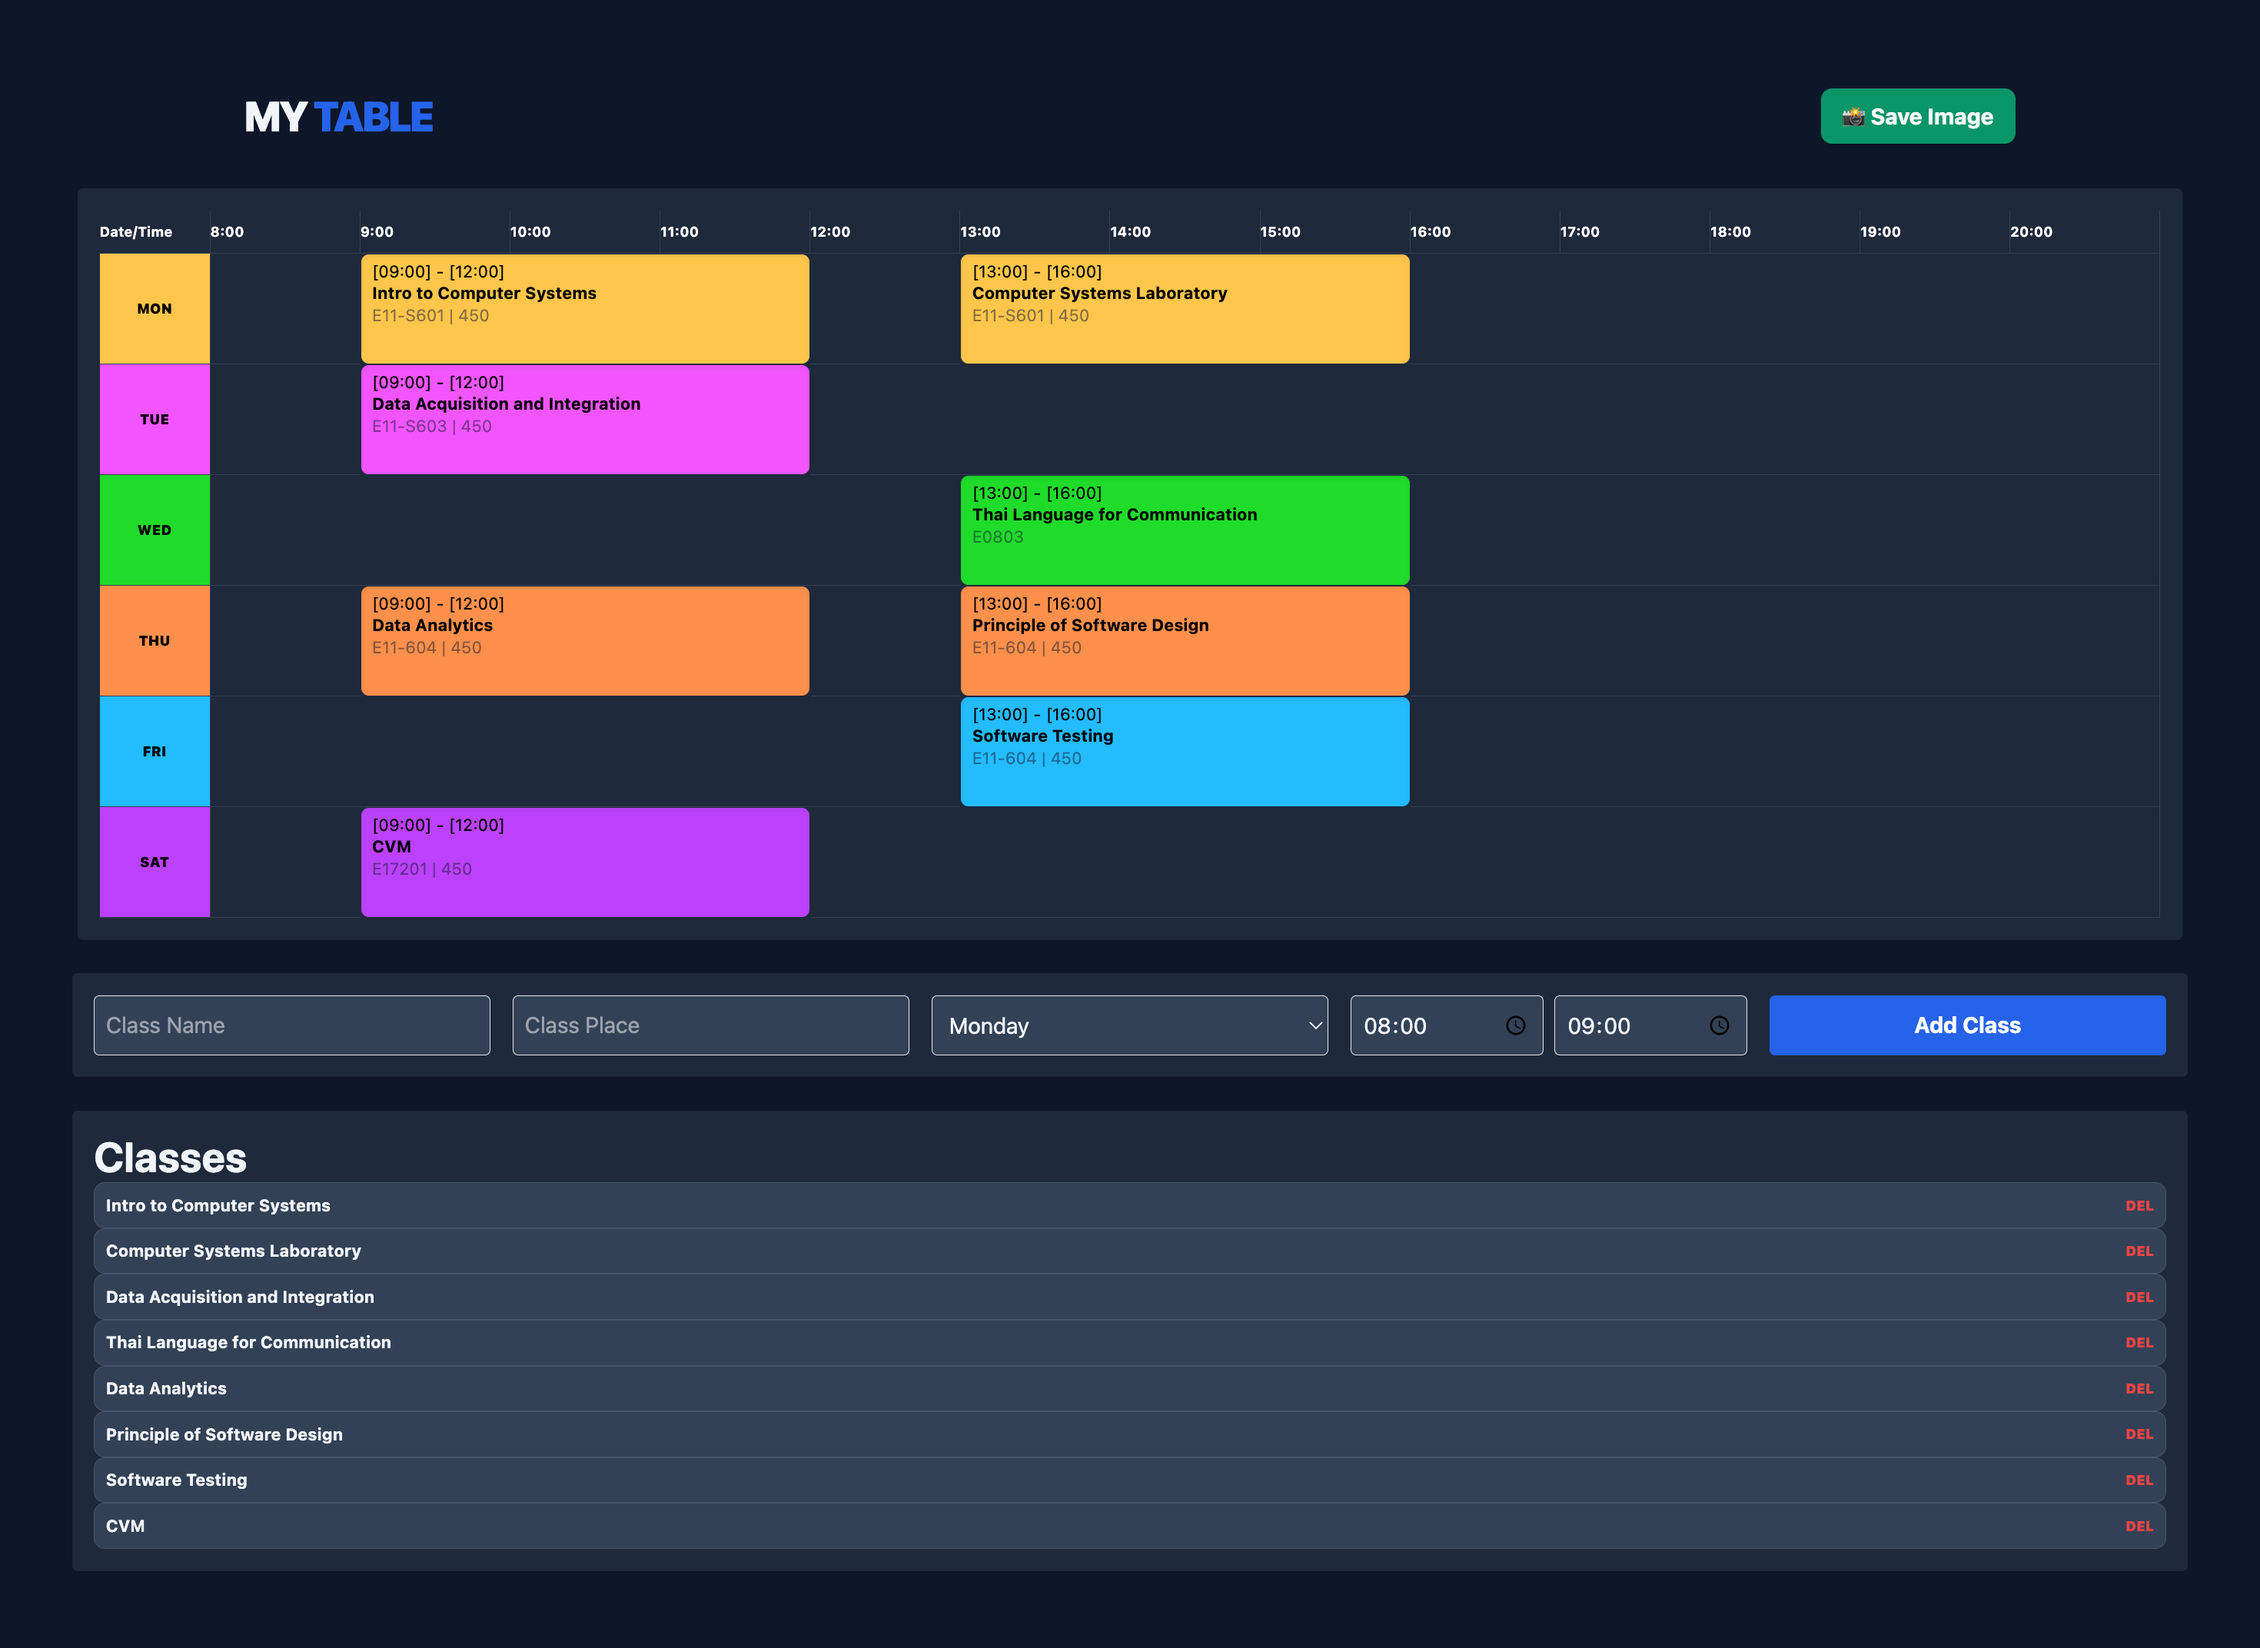
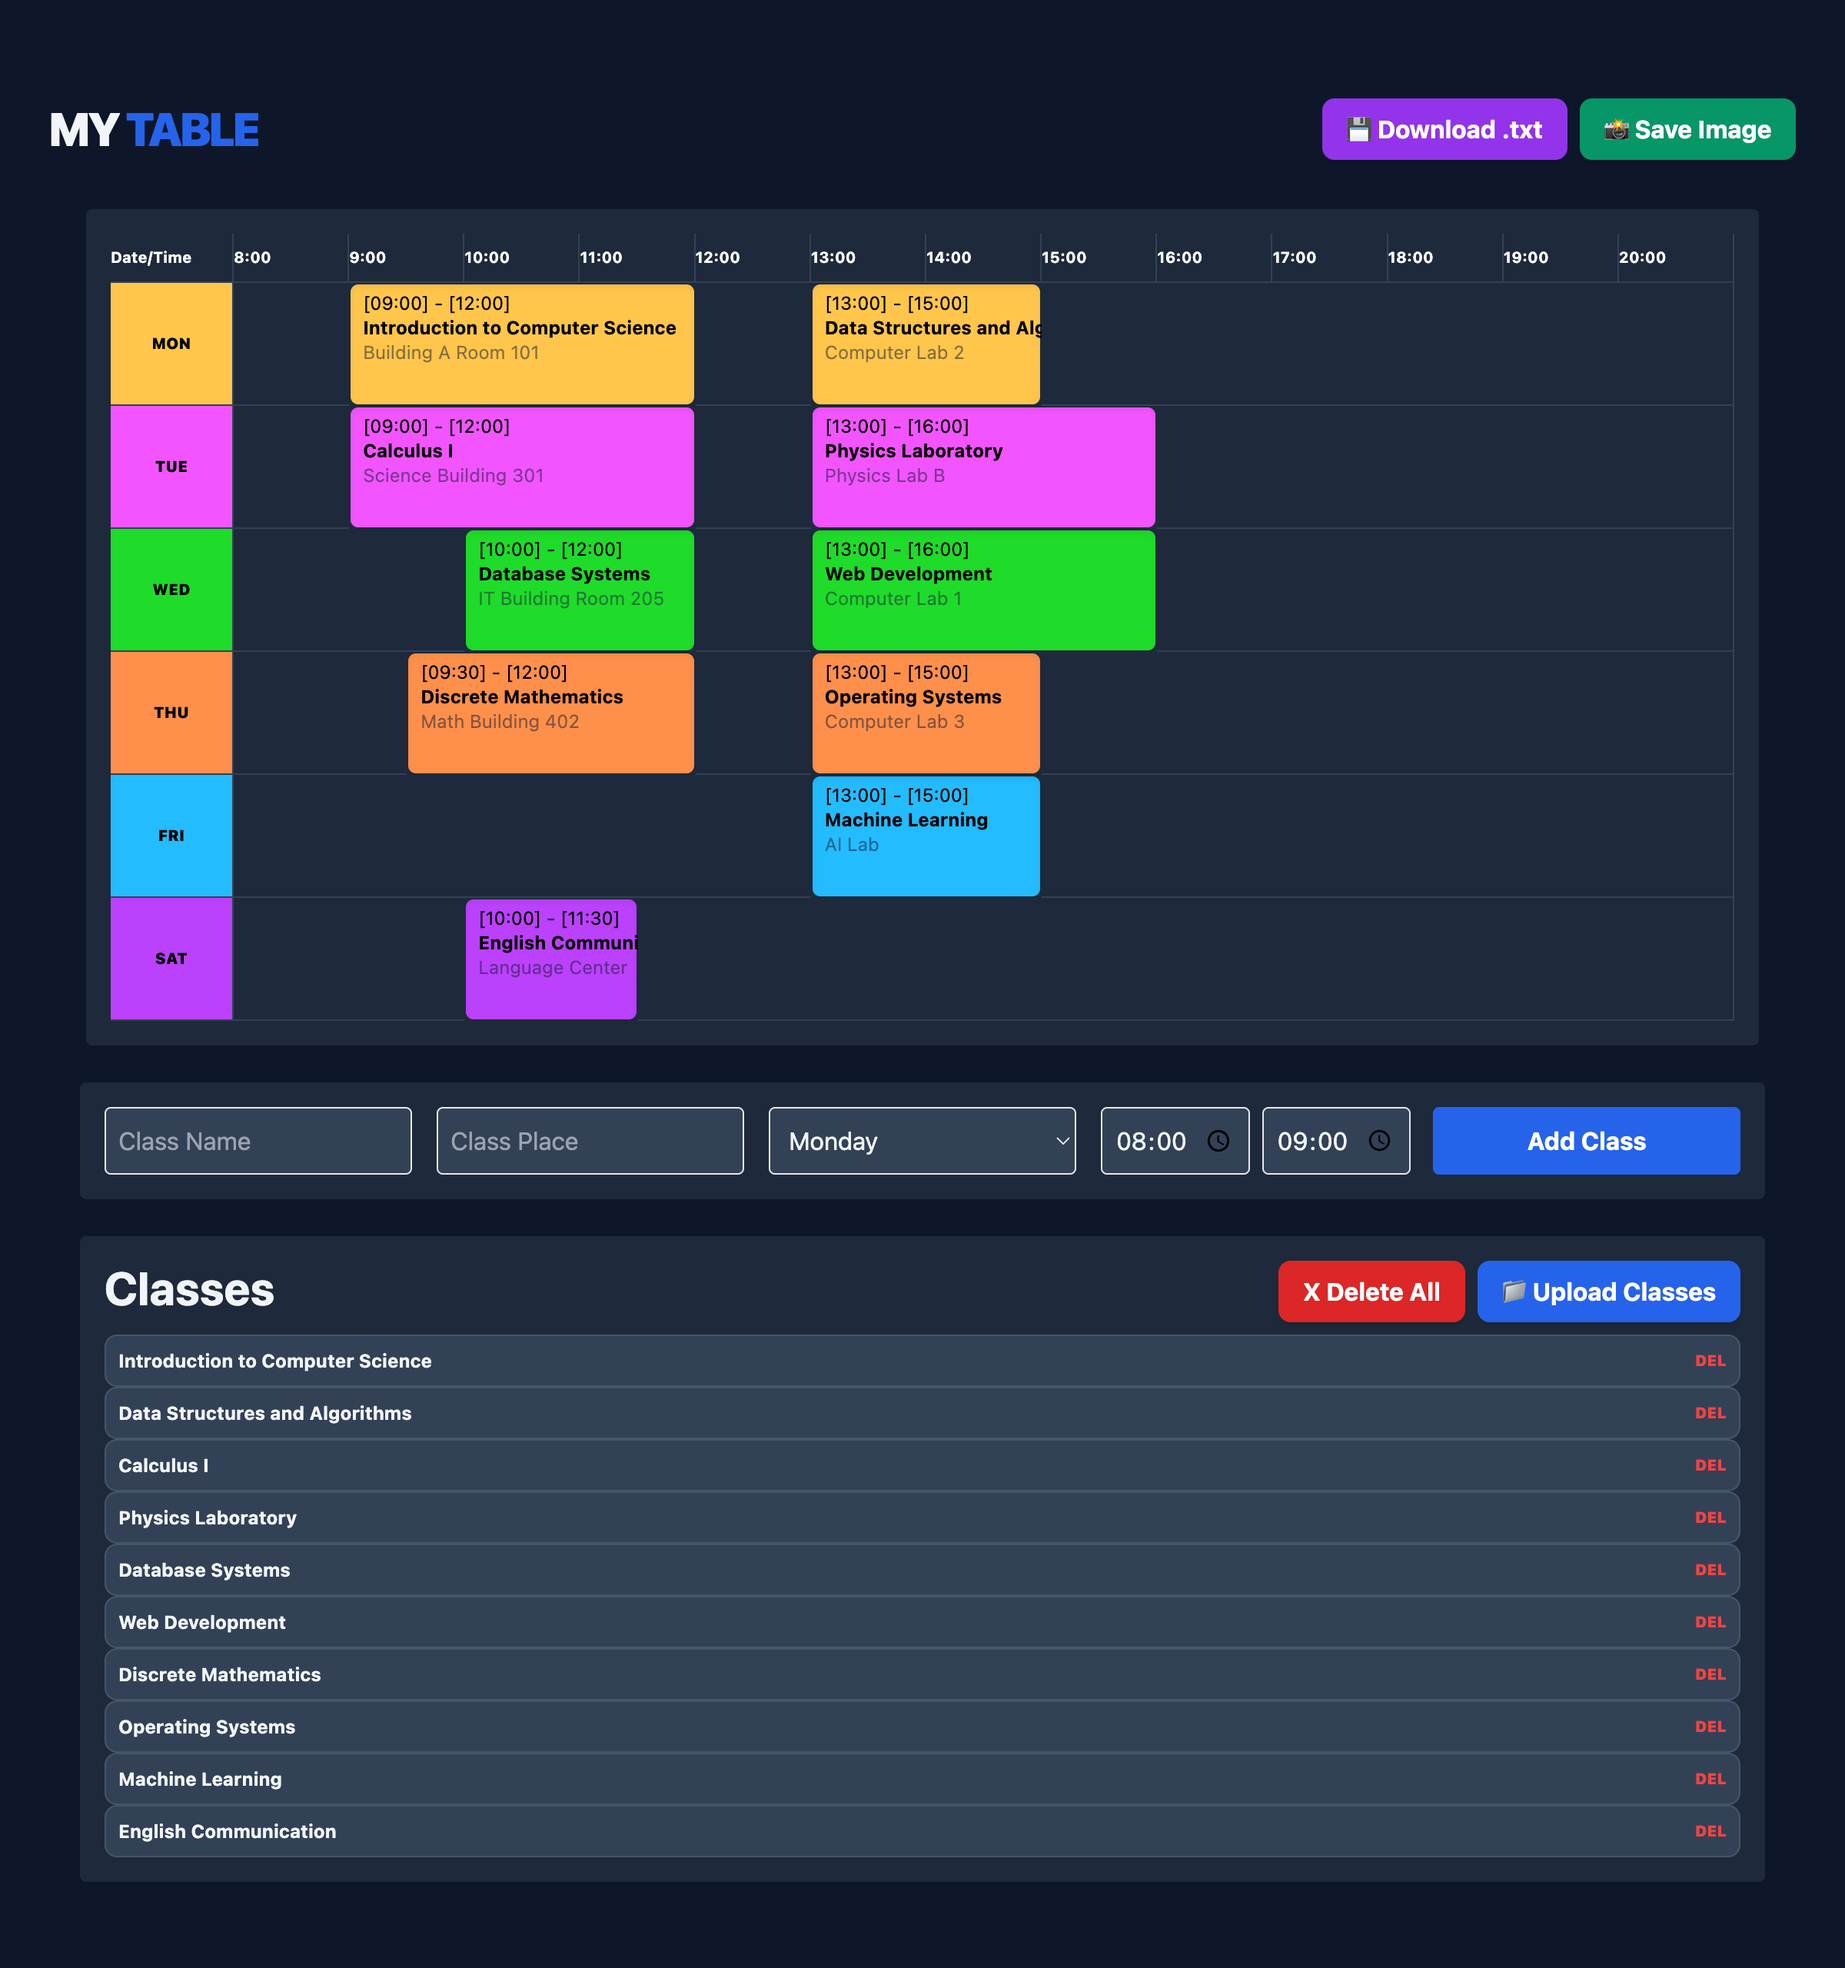
update text file management

diff --git a/scripts.js b/scripts.js
@@ -107,6 +107,22 @@ function deleteClass(id) {
             myClasses = myClasses.filter(c => c.id !== id);
             saveAndRefresh();}
 
+function deleteAllClasses() {
+    if (myClasses.length === 0) {
+        alert('No classes to delete!');
+        return;
+    }
+    
+    const confirmed = confirm(`Are you sure you want to delete all ${myClasses.length} classes? This cannot be undone.`);
+    if (confirmed) {
+        myClasses = [];
+        saveAndRefresh();
+        alert('All classes deleted!');
+    }
+}
+
+
+
 function exportImage(){
     const area = document.getElementById('capture-area');
             html2canvas(area, { scale: 3, backgroundColor: null }).then(canvas => {
@@ -115,6 +131,98 @@ function exportImage(){
                 link.href = canvas.toDataURL();
                 link.click();
             });
+}
+
+function downloadTextFile() {
+    if (myClasses.length === 0) {
+        alert('No classes to export!');
+        return;
+    }
+    
+    const lines = myClasses.map(c => {
+        return `${c.name}, ${c.day}, ${c.startStr}, ${c.endStr}, ${c.place}`;
+    });
+    
+    const content = lines.join('\n');
+    const blob = new Blob([content], { type: 'text/plain' });
+    const url = URL.createObjectURL(blob);
+    
+    const link = document.createElement('a');
+    link.download = 'timetable_classes.txt';
+    link.href = url;
+    link.click();
+    
+    URL.revokeObjectURL(url);
+}
+
+function importFromFile(event) {
+    const file = event.target.files[0];
+    if (!file) return;
+
+    const reader = new FileReader();
+    reader.onload = function(e) {
+        const text = e.target.result;
+        const lines = text.split('\n').filter(line => line.trim() !== '');
+        
+        const newClasses = [];
+        let hasError = false;
+        
+        lines.forEach((line, index) => {
+            const parts = line.split(',').map(s => s.trim());
+            
+            if (parts.length < 4) {
+                alert(`Error on line ${index + 1}: Expected format "name, day, startTime, endTime, place (optional)"`);
+                hasError = true;
+                return;
+            }
+            
+            const [name, day, startStr, endStr, place = ''] = parts;
+            
+            // Validate day
+            if (!DAYS.includes(day.toUpperCase())) {
+                alert(`Error on line ${index + 1}: Invalid day "${day}". Use MON, TUE, WED, THU, FRI, or SAT`);
+                hasError = true;
+                return;
+            }
+            
+            const startSlot = timeToSlot(startStr);
+            const endSlot = timeToSlot(endStr);
+            const duration = endSlot - startSlot;
+            
+            if (duration <= 0) {
+                alert(`Error on line ${index + 1}: End time must be after start time`);
+                hasError = true;
+                return;
+            }
+            
+            newClasses.push({
+                id: Date.now() + index,
+                name,
+                day: day.toUpperCase(),
+                place,
+                startSlot,
+                duration,
+                startStr,
+                endStr
+            });
+        });
+        
+        if (!hasError && newClasses.length > 0) {
+            const shouldReplace = confirm(`Found ${newClasses.length} classes. Replace existing classes?\n\nClick OK to replace, Cancel to merge with existing.`);
+            
+            if (shouldReplace) {
+                myClasses = newClasses;
+            } else {
+                myClasses = [...myClasses, ...newClasses];
+            }
+            
+            saveAndRefresh();
+            alert(`Successfully imported ${newClasses.length} classes!`);
+        }
+    };
+    
+    reader.readAsText(file);
+    event.target.value = ''; // Reset input
 }
 
 

diff --git a/index.html b/index.html
@@ -14,6 +14,7 @@
     <div class="max-w-7xl mx-auto flex justify-between items-center m-8">
         <h1 class="text-3xl font-black tracking-tighter uppercase">My <span class="text-blue-600">Table</span></h1>
         <div class="flex gap-2">
+            <button onclick="downloadTextFile()" class="bg-purple-600 text-white px-4 py-2 rounded-lg font-bold shadow-md hover:bg-purple-700">💾 Download .txt</button>
             <button onclick="exportImage()" class="bg-emerald-600 text-white px-4 py-2 rounded-lg font-bold shadow-md hover:bg-emerald-700">📸 Save Image</button>
         </div>
     </div>
@@ -51,7 +52,17 @@
     </div>
 
     <div class="flex flex-col mb-6 p-4 bg-slate-800 rounded shadow m-5">
-      <h1 class="text-3xl font-bold">Classes</h1>
+      <div class="flex justify-between mb-2">
+        <h1 class="text-3xl font-bold">Classes</h1>
+        <div class="flex gap-2">
+          <button onclick="deleteAllClasses()" class="bg-red-600 text-white px-4 py-2 rounded-lg font-bold shadow-md hover:bg-red-700"> X Delete All</button>
+          <label class="bg-blue-600 text-white px-4 py-2 rounded-lg font-bold shadow-md hover:bg-blue-700 cursor-pointer">
+                  📁 Upload Classes
+                  <input type="file" id="fileInput" accept=".txt" onchange="importFromFile(event)" class="hidden">
+              </label>
+        </div>
+      </div>
+      
       <div class="flex flex-col" id="classes-list">
 
       </div>

diff --git a/README.md b/README.md
@@ -1,4 +1,4 @@
-# MyTable
+   # MyTable
 
 A lightweight, browser-based **Weekly Schedule Generator** 
 
@@ -11,6 +11,7 @@ A lightweight, browser-based **Weekly Schedule Generator**
 - **Conflict Prevention**: Automatically removes underlying grid cells when a class block "spans" across multiple hours
 - **Color-Coded**: each day have the color coded for easier read
 - **Image Export**: One-click export to PNG using html2canvas with 3x scaling for high-definition results.
+- **Upload text file**: Save and download text file for easier fixation and easier adding classes
 
 ### future feature
 - **Dark mode/Light mode**: now the dark mode is default because I prefer so
@@ -19,16 +20,25 @@ A lightweight, browser-based **Weekly Schedule Generator**
 ## Getting Started
 
 1. download/clone this repository
-  ```bash 
+  ```bash
   git clone https://github.com/LylatierN/MyTable.git
   ```
 2. Open `index.html` on any browser (suggestion, Chrome)
 3. READY TO GO!
    - Add Schedule: Enter a name, place, day, time then click `Add class`
    - To Delete: click `del` button on the list below
-   - To Save: click `📸Save Image` button to get the PNG
+   - To Save Image: click `📸Save Image` button to get the PNG
+   - To Save Text: click `💾 Download .txt` to get text file
 
 Note: try using the 80-100% fullscreen desktop for the best result
+
+### File Upload
+  The file must be txt file in format below
+  ```
+  classname, day (MON, TUE), start time (ex. 09:00), end time, place(optional)
+  ```
+
+  or you can look at the [mock data](mockData.txt) for more example
 
 
 ## Project Structure
@@ -36,6 +46,7 @@ Note: try using the 80-100% fullscreen desktop for the best result
 ├── index.html       # The main interface and structure
 ├── script.js        # Grid logic, time-to-slot math, and rendering
 ├── style.css        # extra styling
+├── mockData.txt       # mock text data
 └── README.md        # Documentation
 ```
 
